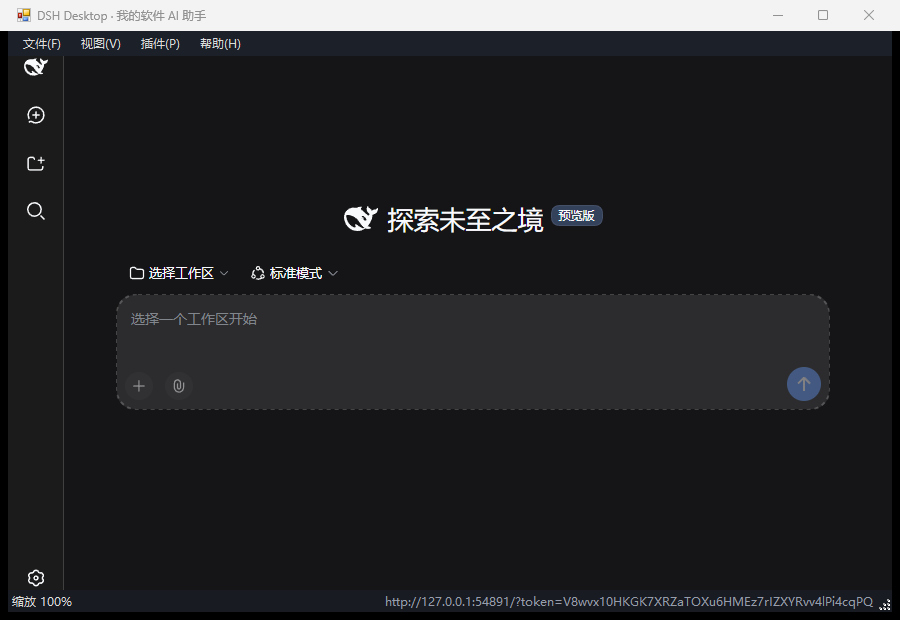
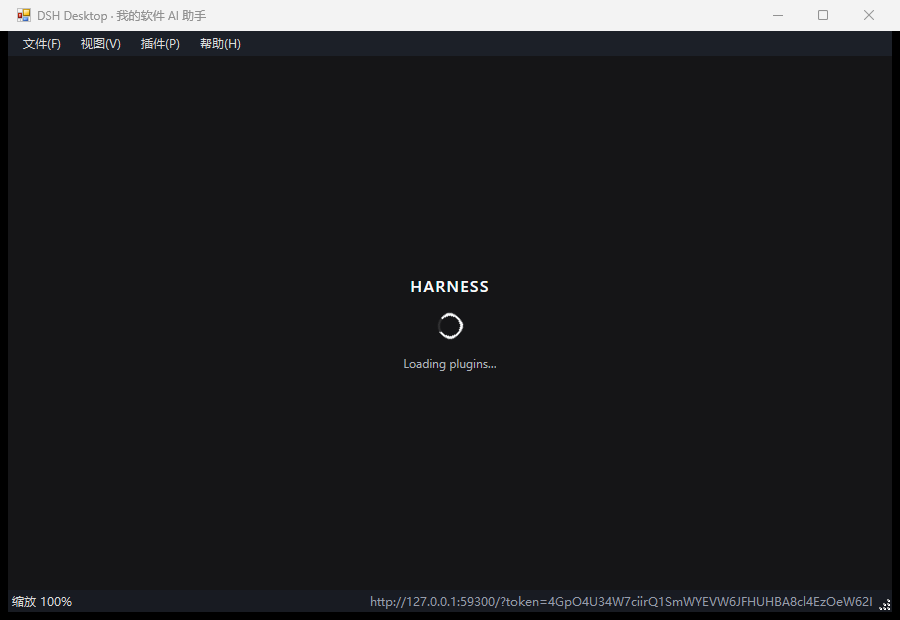
Keep the page area clear of the window chrome
The layout marker added in this change proved the reported bug: the WebView2 spanned
the full client height at y=0, so the 25 px menu bar and the 22 px status bar were
painted over the top and bottom of the DSH interface. The page host is now positioned
explicitly (client area minus the visible chrome) and re-measured after the handle
exists, and four smoke assertions fail if the page is ever covered or clipped again.

- Alt+M / F10 toggle the chrome, showMenuBar and showStatusBar make it a config choice
- the example plugin no longer overlays the page: it recolours the DSH theme
  variables instead of drawing a fixed brand bar and badge over the interface
- README and the plugin guide document both changes

diff --git a/plugins/example-branding/inject/theme.css b/plugins/example-branding/inject/theme.css
@@ -1,57 +1,31 @@
 /*
- * 示例启动器插件样式：只使用稳定的选择器和 CSS 变量，不修改 DSH 的 DOM 结构。
- * 目标覆盖三类改造：品牌色、顶部状态条、窄屏响应式密度。
+ * 示例启动器插件样式。
+ *
+ * 原则：只改 DSH 自己的样式变量与颜色，不叠加任何覆盖元素。
+ * 早期版本用 body::before / body::after 画顶部彩条和角标，会盖住 DSH 页面
+ * 顶部的标题栏与右下角的按钮，导致界面显示不全——这里改成纯变量覆盖：
+ * 页面布局、可点区域与滚动范围完全由 DSH 自己决定。
  */
 
 :root {
-  --dsh-desktop-accent: #22d3a6;
-  --dsh-desktop-accent-soft: rgba(34, 211, 166, 0.16);
+  /* DSH 的主题强调色（按钮、选中态、链接、光标） */
+  --dsh-accent: #22d3a6;
+  --dsh-accent-strong: #17b892;
+  --dsh-accent-soft: rgba(34, 211, 166, 0.16);
+  /* 深色底的轻微偏冷，配合品牌色 */
+  --dsh-background: #10131a;
 }
 
-/* 顶部品牌条：用固定定位覆盖，避免影响 DSH 自身的布局计算。 */
-body::before {
-  content: '';
-  position: fixed;
-  inset: 0 0 auto 0;
-  height: 3px;
-  z-index: 2147483647;
-  background: linear-gradient(90deg, var(--dsh-desktop-accent), #3b82f6 60%, #8b5cf6);
-  pointer-events: none;
+/* 只做配色与圆角这类「不改变尺寸」的微调，避免任何元素被推到视口之外。 */
+:root {
+  --dsh-radius-medium: 10px;
+  --dsh-radius-large: 14px;
 }
 
-/* 右下角运行标识，鼠标悬停显示插件名。 */
-body::after {
-  content: 'DSH Desktop';
-  position: fixed;
-  right: 10px;
-  bottom: 8px;
-  z-index: 2147483646;
-  padding: 2px 8px;
-  border-radius: 999px;
-  font: 11px/1.6 'Microsoft YaHei UI', system-ui, sans-serif;
-  color: var(--dsh-desktop-accent);
-  background: var(--dsh-desktop-accent-soft);
-  border: 1px solid rgba(34, 211, 166, 0.35);
-  pointer-events: none;
-  opacity: 0.75;
-}
-
-/* 窄屏 / 平板：压缩留白，保证聊天区可用宽度。 */
-@media (max-width: 900px) {
-  body::after {
-    display: none;
-  }
-}
-
-@media (max-width: 640px) {
-  body::before {
-    height: 2px;
-  }
-}
-
-/* 触屏设备：加大输入区的点击热区。 */
+/* 触屏设备：把输入区的最小高度调大一点，提升可点性（仍然由 DSH 自己排版）。 */
 @media (pointer: coarse) {
-  body::after {
-    content: '触屏模式';
+  :root {
+    --dsh-radius-medium: 14px;
+    --dsh-radius-large: 18px;
   }
 }

diff --git a/src/DshDesktop.cs b/src/DshDesktop.cs
@@ -109,6 +109,7 @@ namespace DshDesktop
         private List<LoadedPlugin> plugins;
         private DshServer server;
         private WebView2 webView;
+        private Panel content;
         private Label splash;
         private MenuStrip menu;
         private StatusStrip status;
@@ -137,9 +138,18 @@ namespace DshDesktop
             BackColor = Color.FromArgb(18, 20, 26);
             ForeColor = Color.Gainsboro;
 
+            // The page host is positioned explicitly in LayoutContent: WinForms docking
+            // order between a fill control and the menu/status strips depends on
+            // z-order subtleties, and getting it wrong paints the strips over the page.
+            content = new Panel();
+            content.BackColor = Color.FromArgb(18, 20, 26);
+            Controls.Add(content);
+
             BuildMenu();
             BuildStatusBar();
+            LayoutContent();
             BuildSplash();
+            ApplyChrome();
 
             Load += OnFormLoad;
             FormClosing += OnFormClosing;
@@ -216,6 +226,52 @@ namespace DshDesktop
             if (string.IsNullOrEmpty(config.NodeMode)) config.NodeMode = "auto";
             if (config.NodePath == null) config.NodePath = "";
             if (string.IsNullOrEmpty(config.Channel)) config.Channel = "next";
+            // The window chrome is optional: a product that wants the page to own the
+            // whole window sets both keys to false, and Alt+M switches them at runtime.
+            if (!config.ShowMenuBar.HasValue) config.ShowMenuBar = true;
+            if (!config.ShowStatusBar.HasValue) config.ShowStatusBar = true;
+        }
+
+        /// <summary>Applies the configured window chrome, keeping the page layout in charge.</summary>
+        private void ApplyChrome()
+        {
+            menu.Visible = config.ShowMenuBar.HasValue ? config.ShowMenuBar.Value : true;
+            status.Visible = config.ShowStatusBar.HasValue ? config.ShowStatusBar.Value : true;
+            LayoutContent();
+        }
+
+        /// <summary>
+        /// Gives the page host exactly the client area minus the visible chrome, so
+        /// the menu and status bars never cover part of the DSH interface.
+        /// </summary>
+        private void LayoutContent()
+        {
+            if (content == null)
+            {
+                return;
+            }
+            int top = menu != null && menu.Visible ? menu.Height : 0;
+            int bottom = status != null && status.Visible ? status.Height : 0;
+            int height = ClientSize.Height - top - bottom;
+            if (height < 0)
+            {
+                height = 0;
+            }
+            content.Bounds = new Rectangle(0, top, ClientSize.Width, height);
+        }
+
+        /// <summary>Shows or hides the menu and status bars so the page can use the whole window.</summary>
+        private void ToggleChrome()
+        {
+            bool show = !(menu.Visible && status.Visible);
+            config.ShowMenuBar = show;
+            config.ShowStatusBar = show;
+            menu.Visible = show;
+            status.Visible = show;
+            LayoutContent();
+            SaveConfig();
+            statusText.Text = show ? "已显示窗口工具栏（Alt+M 隐藏）" : "已隐藏窗口工具栏（Alt+M 显示）";
+            log.Info("chrome toggled: " + (show ? "visible" : "hidden"));
         }
 
         /// <summary>Writes config.json back, used after the runtime panel changes the layout.</summary>
@@ -408,13 +464,17 @@ namespace DshDesktop
             splash.ForeColor = Color.Gainsboro;
             splash.Text = "正在启动 DeepSeek Harness…" + Environment.NewLine + Environment.NewLine
                 + "首次启动会在 data\\dsh-home 建立运行环境，请稍候。";
-            Controls.Add(splash);
+            content.Controls.Add(splash);
             splash.BringToFront();
         }
 
         private async void OnFormLoad(object sender, EventArgs e)
         {
+            // Control heights are only real once the handle exists, so the page host
+            // is measured again here rather than trusting the constructor's layout.
+            LayoutContent();
             WindowState = boundsState;
+            LayoutContent();
             string panel = ParseStartupPanel(commandLine);
             if (panel.Length > 0)
             {
@@ -827,8 +887,8 @@ namespace DshDesktop
             webView.DefaultBackgroundColor = Color.FromArgb(18, 20, 26);
             // The control must be parented before EnsureCoreWebView2Async, otherwise
             // it has no window handle to host the browser and initialization times out.
-            // The splash is added first and therefore stays in front until we swap.
-            Controls.Add(webView);
+            // The splash is in front until the swap below.
+            content.Controls.Add(webView);
             webView.SendToBack();
 
             string userDataFolder = Path.Combine(paths.DataDirectory, "webview2");
@@ -889,7 +949,7 @@ namespace DshDesktop
             }
             if (splash != null)
             {
-                Controls.Remove(splash);
+                content.Controls.Remove(splash);
                 splash.Dispose();
                 splash = null;
             }
@@ -897,6 +957,8 @@ namespace DshDesktop
             webView.BringToFront();
             menu.BringToFront();
             status.BringToFront();
+            LayoutContent();
+            webView.BringToFront();
             webView.CoreWebView2.Navigate(accessUrl);
         }
 
@@ -957,9 +1019,9 @@ namespace DshDesktop
             builder.Append("var send=function(action){try{window.chrome.webview.postMessage('dshDesktop:'+action);}catch(e){}};");
             builder.Append("document.addEventListener('keydown',function(event){");
             builder.Append("var key=event.key;var action=null;");
-            builder.Append("if(event.altKey&&!event.ctrlKey&&!event.metaKey){var alt={r:'runtime',u:'update',p:'plugins',d:'diagnostics',l:'copy-url'};action=alt[(key||'').toLowerCase()];}");
+            builder.Append("if(event.altKey&&!event.ctrlKey&&!event.metaKey){var alt={r:'runtime',u:'update',p:'plugins',d:'diagnostics',l:'copy-url',m:'chrome'};action=alt[(key||'').toLowerCase()];}");
             builder.Append("else if(event.ctrlKey&&!event.altKey){if(key==='='||key==='+')action='zoom-in';else if(key==='-')action='zoom-out';else if(key==='0')action='zoom-reset';}");
-            builder.Append("else if(key==='F5')action='reload';else if(key==='F11')action='fullscreen';else if(key==='F12')action='devtools';");
+            builder.Append("else if(key==='F5')action='reload';else if(key==='F10')action='chrome';else if(key==='F11')action='fullscreen';else if(key==='F12')action='devtools';");
             builder.Append("if(action){event.preventDefault();event.stopPropagation();send(action);}},true);})();");
             return builder.ToString();
         }
@@ -1027,6 +1089,13 @@ namespace DshDesktop
             statusText.Text = "DSH 已就绪";
             SetZoom(currentZoom <= 0.1 ? config.ZoomFactor : currentZoom);
             Text = EffectiveTitle();
+            // Geometry marker: the page must own everything the chrome does not.
+            log.Info("layout: client=" + ClientSize.Width + "x" + ClientSize.Height
+                + " webview=" + webView.Width + "x" + webView.Height
+                + " at " + webView.Left + "," + webView.Top
+                + " host=" + content.Width + "x" + content.Height + " at " + content.Left + "," + content.Top
+                + " menu=" + (menu.Visible ? menu.Height : 0)
+                + " status=" + (status.Visible ? status.Height : 0));
             // Readiness marker for the end-to-end test: the window is showing the app.
             log.Info("webview2 ready: " + accessUrl);
         }
@@ -1293,7 +1362,7 @@ namespace DshDesktop
                 splash.Text = "DSH 启动失败。" + Environment.NewLine + Environment.NewLine
                     + "日志：" + log.CurrentFile + Environment.NewLine + Environment.NewLine + tail;
                 splash.ForeColor = Color.FromArgb(255, 170, 170);
-                Controls.Add(splash);
+                content.Controls.Add(splash);
                 splash.BringToFront();
             }
             statusText.Text = "启动失败";
@@ -1376,6 +1445,7 @@ namespace DshDesktop
                 if (key == Keys.P) { ShowPlugins(); return true; }
                 if (key == Keys.D) { ShowDiagnostics(); return true; }
                 if (key == Keys.L) { CopyUrl(); return true; }
+                if (key == Keys.M) { ToggleChrome(); return true; }
                 return false;
             }
             if (control)
@@ -1388,6 +1458,7 @@ namespace DshDesktop
             if (key == Keys.F5) { Reload(); return true; }
             if (key == Keys.F11) { ToggleFullScreen(); return true; }
             if (key == Keys.F12) { OpenDevTools(); return true; }
+            if (key == Keys.F10) { ToggleChrome(); return true; }
             if (key == Keys.Escape && fullScreen) { ToggleFullScreen(); return true; }
             return false;
         }
@@ -1419,6 +1490,7 @@ namespace DshDesktop
             if (message.IndexOf("zoom-out", StringComparison.Ordinal) >= 0) { Zoom(1 / 1.1); return; }
             if (message.IndexOf("zoom-reset", StringComparison.Ordinal) >= 0) { SetZoom(config.ZoomFactor); return; }
             if (message.IndexOf("reload", StringComparison.Ordinal) >= 0) { Reload(); return; }
+            if (message.IndexOf("chrome", StringComparison.Ordinal) >= 0) { ToggleChrome(); return; }
             if (message.IndexOf("fullscreen", StringComparison.Ordinal) >= 0) { ToggleFullScreen(); return; }
             if (message.IndexOf("devtools", StringComparison.Ordinal) >= 0) { OpenDevTools(); return; }
         }
@@ -1433,10 +1505,12 @@ namespace DshDesktop
 
         private void OnResize(object sender, EventArgs e)
         {
+            LayoutContent();
             if (WindowState != FormWindowState.Minimized)
             {
                 bool compact = Width < 720;
-                status.Visible = !fullScreen && !compact;
+                status.Visible = !fullScreen && !compact && (config.ShowStatusBar.HasValue ? config.ShowStatusBar.Value : true);
+                LayoutContent();
             }
         }
 

diff --git a/src/DesktopSupport.cs b/src/DesktopSupport.cs
@@ -53,6 +53,10 @@ namespace DshDesktop
         [DataMember(Name = "checkUpdatesOnStartup")] public bool? CheckUpdatesOnStartup;
         /// <summary>Null means the key was omitted, which never installs without asking.</summary>
         [DataMember(Name = "autoUpdate")] public bool? AutoUpdate;
+        /// <summary>Null means the key was omitted, which shows the menu bar.</summary>
+        [DataMember(Name = "showMenuBar")] public bool? ShowMenuBar;
+        /// <summary>Null means the key was omitted, which shows the status bar.</summary>
+        [DataMember(Name = "showStatusBar")] public bool? ShowStatusBar;
     }
 
     /// <summary>One plugin directory's launcher.json. Every field is optional.</summary>

diff --git a/README.en.md b/README.en.md
@@ -24,7 +24,7 @@
 | Main window: a standalone page, unrelated to the browser | Compact window: responsive layout at 900×620 |
 | --- | --- |
 | ![Main window](docs/images/01-main-window.png) | ![Compact window](docs/images/02-compact-window.png) |
-| The bundled Node and DSH runtime start `dsh web`, and WebView2 hosts the interface in **its own window**. The example plugin rewrites the window title to "DSH Desktop · My Software AI Assistant"; the top brand bar and the bottom-right mark come from injected styles, and the status bar shows the service address and zoom level. | The window minimum is 420×320, small screens maximize automatically, and the status bar hides itself in narrow windows; the DSH page collapses its own sidebar. The same interface switches clarity per monitor at 125%/150%/200% zoom. |
+| The bundled Node and DSH runtime start `dsh web`, and WebView2 hosts the interface in **its own window**. The example plugin rewrites the window title to "DSH Desktop · My Software AI Assistant"; the brand colour comes from overriding the DSH theme variables. | The window minimum is 420×320, small screens maximize automatically, and the status bar hides itself in narrow windows; the DSH page collapses its own sidebar. The same interface switches clarity per monitor at 125%/150%/200% zoom. |
 
 | Runtime manager: what the machine has and how much you can save | Check for updates: how it differs from the official npx, written in the UI |
 | --- | --- |
@@ -158,9 +158,11 @@ For the full field list, precedence, injection context, and troubleshooting see 
 | `Alt+U` | Check for updates | `F11` / `Esc` | Full screen / leave full screen |
 | `Alt+P` | Loaded plugins | `F12` | Developer tools |
 | `Alt+D` | Diagnostics | `Ctrl +` / `Ctrl -` / `Ctrl 0` | Zoom in / zoom out / reset zoom |
-| `Alt+L` | Copy the access address | | |
+| Alt+L | Copy the access address | Alt+M / F10 | Show / hide the window chrome |
 
 > While the page has focus, keystrokes are captured by the injected page listener and sent back through host messages (the standard WebView2 channel), so the shortcuts work inside the page as well.
+
+> To give the DSH interface the whole window, press Alt+M (or F10) to hide the menu and status bars; the choice is written back to showMenuBar / showStatusBar in config.json. The page area is exactly the client area minus those bars, so the chrome never covers the DSH title bar or its input area: four assertions in 	ests\\smoke.ps1 check this.
 
 ## Build, self-test, and screenshots
 

diff --git a/README.md b/README.md
@@ -24,7 +24,7 @@
 | 主窗口：独立页面，与浏览器无关 | 小窗口：900×620 下的响应式布局 |
 | --- | --- |
 | ![主窗口](docs/images/01-main-window.png) | ![小窗口](docs/images/02-compact-window.png) |
-| 内置 Node 与 DSH 运行时启动 `dsh web`，WebView2 在**自己的窗口**里承载界面。窗口标题由示例插件改写为「DSH Desktop · 我的软件 AI 助手」，顶部品牌条与右下角标识来自注入样式，底部状态栏显示服务地址与缩放。 | 窗口最小 420×320，小屏自动最大化，状态栏在窄窗口下自动隐藏；DSH 页面自身会折叠侧栏。同一套界面在 125%/150%/200% 缩放下按显示器切换清晰度。 |
+| 内置 Node 与 DSH 运行时启动 `dsh web`，WebView2 在**自己的窗口**里承载界面。窗口标题由示例插件改写为「DSH Desktop · 我的软件 AI 助手」，品牌色由插件覆盖 DSH 自己的主题变量得到，底部状态栏显示服务地址与缩放。 | 窗口最小 420×320，小屏自动最大化，状态栏在窄窗口下自动隐藏；DSH 页面自身会折叠侧栏。同一套界面在 125%/150%/200% 缩放下按显示器切换清晰度。 |
 
 | 运行环境管理：本机有什么、能省多少 | 检查更新：跟官方 npx 的差别写在界面上 |
 | --- | --- |
@@ -160,9 +160,11 @@ cd DSH-Desktop
 | `Alt+U` | 检查更新 | `F11` / `Esc` | 全屏 / 退出全屏 |
 | `Alt+P` | 已加载插件 | `F12` | 开发者工具 |
 | `Alt+D` | 诊断信息 | `Ctrl +` / `Ctrl -` / `Ctrl 0` | 放大 / 缩小 / 重置缩放 |
-| `Alt+L` | 复制访问地址 | | |
+| `Alt+L` | 复制访问地址 | `Alt+M` / `F10` | 显示 / 隐藏窗口工具栏 |
 
 > 页面获得焦点时按键由注入的页面监听器捕获并通过宿主消息回传（WebView2 的标准通道），所以快捷键在页面内也有效。
+>
+> 想让 DSH 界面独占整个窗口，按 `Alt+M`（或 `F10`）隐藏菜单栏与状态栏，状态会写回 `config.json` 的 `showMenuBar` / `showStatusBar`。页面区域严格等于「客户区 − 菜单栏 − 状态栏」，工具栏不会盖住 DSH 自己的标题栏与输入区——`tests\smoke.ps1` 中有 4 项断言专门校验这一点。
 
 ## 构建、自测与截图
 

diff --git a/docs/PLUGIN-GUIDE.zh.md b/docs/PLUGIN-GUIDE.zh.md
@@ -71,7 +71,18 @@ plugins\
 "DSH Desktop.exe" --open runtime   # 启动后直接打开面板：runtime | update | plugins | diagnostics
 ```
 
-窗口快捷键（页面获得焦点时由注入的页面监听器经宿主消息回传，因此在页面内同样有效）：`Alt+R` 运行环境管理、`Alt+U` 检查更新、`Alt+P` 已加载插件、`Alt+D` 诊断信息、`Alt+L` 复制访问地址、`F5` 重新加载、`F11` 全屏、`F12` 开发者工具、`Ctrl + / - / 0` 缩放。
+窗口快捷键（页面获得焦点时由注入的页面监听器经宿主消息回传，因此在页面内同样有效）：`Alt+R` 运行环境管理、`Alt+U` 检查更新、`Alt+P` 已加载插件、`Alt+D` 诊断信息、`Alt+L` 复制访问地址、`Alt+M` 或 `F10` 显示/隐藏窗口工具栏、`F5` 重新加载、`F11` 全屏、`F12` 开发者工具、`Ctrl + / - / 0` 缩放。
+
+想让 DSH 界面独占整个窗口，把工具栏关掉即可：
+
+```jsonc
+// config.json
+{ "showMenuBar": false, "showStatusBar": false }
+```
+
+或者运行时按 `Alt+M` / `F10` 切换，状态会写回 `config.json`。窗口布局永远按「客户区 − 菜单栏 − 状态栏 = 页面区域」计算，所以工具栏不会盖住 DSH 自己的顶部标题栏和底部输入区；`tests\smoke.ps1` 里有 4 项断言专门盯这件事。
+
+**注入样式不要覆盖页面元素。** 早期示例插件用 `body::before` / `body::after` 画顶部彩条和右下角角标，结果盖住了 DSH 的标题栏与右下角按钮——现在示例改成只覆盖 DSH 自己的主题变量（`--dsh-accent` 等），页面布局、可点区域与滚动范围完全由 DSH 决定。
 
 ## 二、DSH 宿主插件
 
